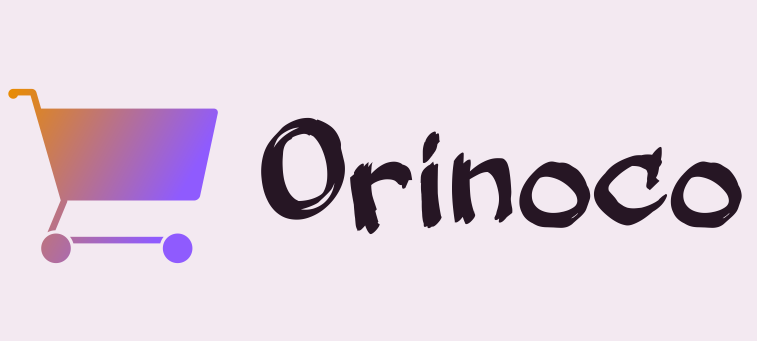
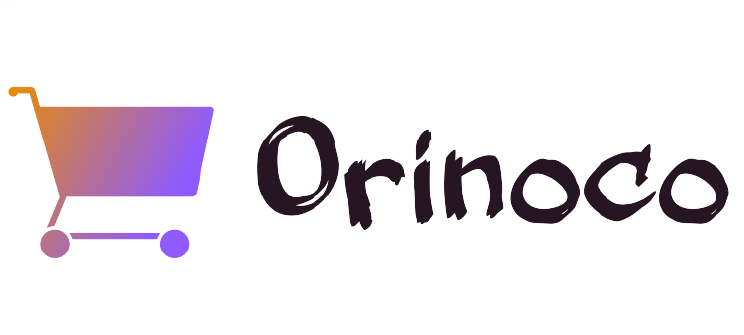
feat: template html, w3c validator improvements, responsive

diff --git a/style.css b/style.css
@@ -11,6 +11,10 @@ a {
     color: inherit;
 }
 
+h2, h3, p, figure {
+    margin: 0;
+}
+
 /* _____ _   _ _____ //\ _____ _____ 
   | ____| \ | |_   _|/_\|_   _| ____|
   |  _| |  \| | | || ____|| | |  _|  
@@ -26,10 +30,13 @@ a {
     align-items: center;
 }
 
-#logo__container {
-    background-color: white;
+#header__container {
+    background-color: #fff;
     padding: 0.5rem 1rem;
-    border-radius: 1rem;
+    border-radius: 0 1rem 0 0;
+    width: 100%;
+    display: grid;
+    grid-template-columns: 1fr 2fr 1fr;
 }
 
 
@@ -38,17 +45,21 @@ a {
 }
 
 #navbar {
-    width: 80px;
-    background-color: white;
-    padding: 1rem 1.5rem;
-    border-radius: 1rem;
+    grid-column: 3/4;
+    display: flex;
+    flex-direction: column;
+    justify-content: center;
 }
 
 #navbar__list {
-    display: flex;
+    display: grid;
+    grid-template-columns: 1fr 1fr;
     padding-left: 0px;
-    justify-content: space-between;
     list-style: none;
+}
+
+#navbar__list > li {
+    text-align: center;
 }
 
 /* ____  _____ ____ _____ ___ ___  _   _ 
@@ -58,12 +69,70 @@ a {
   |____/|_____\____| |_| |___\___/|_| \_|
 */
 
+section {
+    max-width: 880px;
+    margin: auto;
+    background-color: #fff;
+    margin-top: 0.5rem;
+    padding-top: 1rem;
+}
+
+section > h2 {
+    margin-left: 2rem;
+}
+
 #products {
     display: grid;
     grid-template-columns: 1fr 1fr;
+    gap: 1.25rem;
     list-style: none;
+    padding: 2rem;
+    margin-top: 0.25rem;
 }
 
+@media (max-width: 768px) {
+    #products {
+        grid-template-columns: 1fr;
+    }
+  }
+
 .singleProduct__image {
-    width: 240px;
+    height: 12rem;
+    width: 100%;
+    border-radius: 1rem 1rem 0 0;
+    object-fit: cover;
+}
+
+.singleProduct__link > figure {
+    background-color: #f3e9f1;
+    border-radius: 1rem 1rem 0 1rem;
+    box-shadow: 0px 5px 5px #d1d1d1;
+    position: relative;
+}
+
+.singleProduct__link > figure:hover {
+    transform: scale(1.025);
+    transition: transform 0.1s;
+}
+
+.singleProduct__link > figure > figcaption {
+    display: grid;
+    grid-template-columns: 1fr;
+    grid-template-rows: auto auto;
+    padding: 0.75rem;
+    align-items: center;
+}
+
+.singleProduct__price {
+    position: absolute;
+    top: 15px;
+    right: 15px;
+    background-color: #f3e9f1;
+    padding: 0.5rem;
+    border-radius: 1rem;
+    font-weight: bold;
+}
+
+.singleProduct__description {
+    grid-row: 2;
 }

diff --git a/index.html b/index.html
@@ -16,23 +16,28 @@
 </head>
 <body>
 
-    <!-- Page d'accueil -->
+    <!-- En-tête -->
     <header id="header">
-        <div id="logo__container">
-            <img id="logo" src="images/orinoco.png">
+        <div id="header__container">
+            <a href="index.html">
+                <img id="logo" alt="logo en-tête orinoco" src="images/orinoco.png">
+            </a>
+            <nav id="navbar">
+                <ul id="navbar__list">
+                    <li>
+                        <span class="material-icons-outlined"><a href="index.html"><img src="images/home.png" alt="lien visuel accueil"></a></span>
+                    </li>
+                    <li>
+                        <span class="material-icons-outlined"><a href="/pages/cart.html"><img src="images/cart.png" alt="lien visuel panier"></a></span>
+                    </li>
+                </ul>
+            </nav>
         </div>
-        <nav id="navbar">
-            <ul id="navbar__list">
-                <li>
-                    <span class="material-icons-outlined"><a href="#"><img src="images/home.svg"></a></span>
-                </li>
-                <li>
-                    <span class="material-icons-outlined"><a href="#"><img src="images/cart.svg"></a></span>
-                </li>
-            </ul>
-        </nav>
     </header>
+
+    <!-- Produits -->
     <section>
+        <h2>Nos Produits</h2>
         <ul id="products"></ul>
     </section>
 
@@ -43,7 +48,7 @@
                 <figure>
                     <img id="singleProduct__image">
                     <figcaption>
-                        <h2 id="singleProduct__name"></h2>
+                        <h3 id="singleProduct__name"></h3>
                         <span id="singleProduct__price"></span>
                         <p id="singleProduct__description"></p>
                     </figcaption>
@@ -53,8 +58,7 @@
     </template>
     
     <!-- Appel des scripts -->
-    <script type="text/javascript" src="main.js"></script>
-
+    <script src="main.js"></script>
 
 </body>
 </html>

diff --git a/main.js b/main.js
@@ -44,11 +44,12 @@ function buildProducts(product) {
   
   // Définition du contenu de chaque élément
 
-  link.href = `/product.html?id=${product._id}`
+  link.href = `/pages/product.html?id=${product._id}`
   description.textContent = product.description
-  price.textContent = product.price
+  price.textContent = `${product.price / 100}.00 €`
   name.textContent = product.name
   image.src = product.imageUrl
+  image.alt = product.name
 
   document.getElementById('products').appendChild(clone)
 
